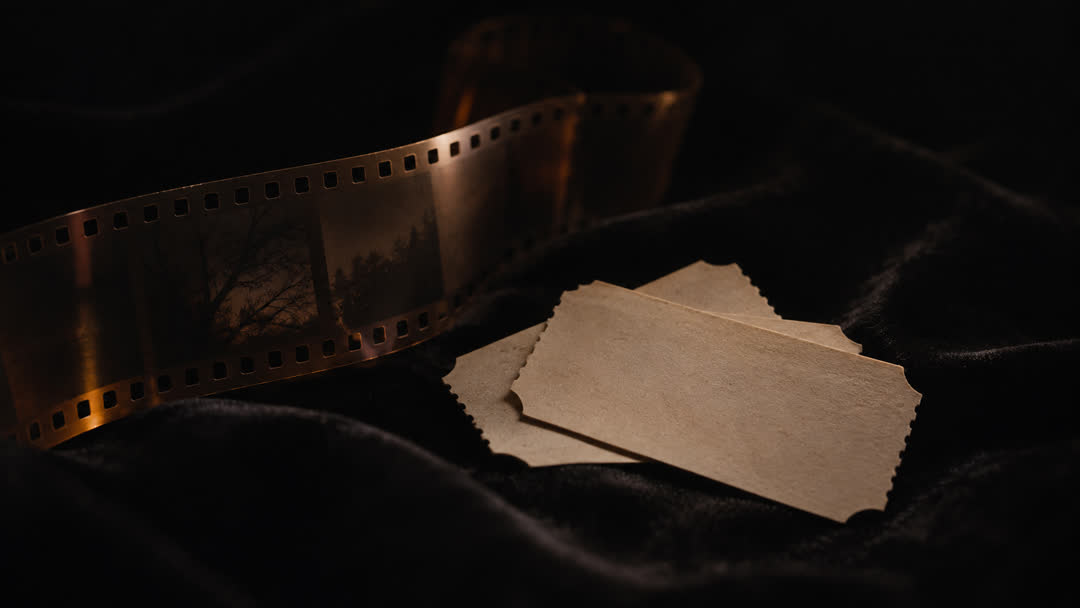
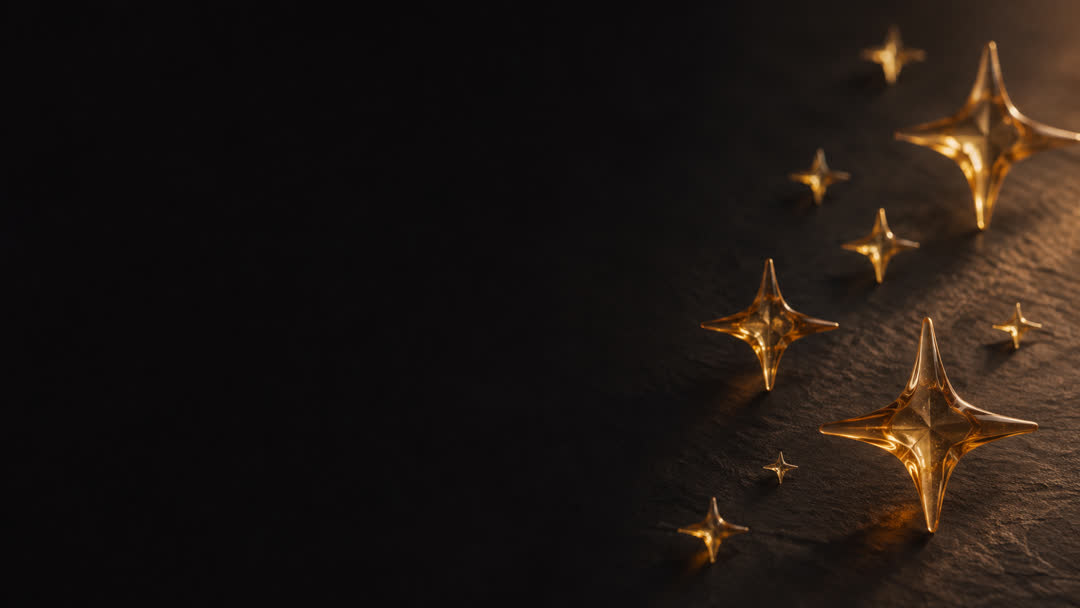
feat(miniprogram): points shown as glass stars, not coins; wallet cleanup
我的积分 / 充值订单:
- Package and order covers: amber glass four-point stars (the same ✦ that
  marks points), more stars for bigger packs: one, three, a jar, a box.
  services/points-art.ts ranks packages by size and orders by amount, so
  both pages match. Replaces fanned template covers.
- Balance card: stars fading in from the right; refresh button removed
  (pull-down and returning to the page already refresh).
- ✦ text marks become a cyan star glyph (wallet, points pill).
- Custom amount: an estimate card with the expected points in large type.
- 我的: points row photo is a star instead of a coin stack.

Aliyun OSS vs WeChat package:
- media/ui-art/wallet-bg.jpg changed (ART_VERSION 3 -> 4): goes to Aliyun
  OSS, synced automatically at deployment by doubo-sync-ui-art.service.
- miniprogram/assets/photos/tier-*.jpg, points.jpg, glyphs/points-star.png:
  NOT for Aliyun; shipped inside the mini-program package to WeChat.

Tests: tier mapping (finance-insights), wallet backdrop slot (ui-art).
Source estimate 737,774 B, within the 724 KiB limit.

diff --git a/miniprogram/pages/wallet/insights.ts b/miniprogram/pages/wallet/insights.ts
@@ -9,6 +9,7 @@ import type { Ledger } from "../../services/wallet-ledger";
 import { ledgerView } from "../../services/wallet-ledger";
 import { withDays } from "../../utils/day";
 import { templateCovers } from "../../services/covers";
+import { tierByRank } from "../../services/points-art";
 
 // Everything here is derived from real data: product prices, live quotes
 // for each kind's default model, and ledger rows. Nothing is invented.
@@ -16,6 +17,7 @@ import { templateCovers } from "../../services/covers";
 const per100 = (fen: number, units: number) => money(Math.round((fen * 10000) / units)); // ¥ per 100 points
 
 export function productCards(products: VirtualProduct[]) {
+  const sizes = products.map((p) => p.pointsUnits).sort((a, b) => a - b);
   const rate = (p: VirtualProduct) => p.pointsUnits / p.amountFen;
   const valid = products.filter((p) => p.amountFen > 0 && p.pointsUnits > 0);
   const worst = Math.min(...valid.map(rate)),
@@ -32,7 +34,7 @@ export function productCards(products: VirtualProduct[]) {
       per100: r ? per100(p.amountFen, p.pointsUnits) : "",
       bonus: bonus >= 1 ? `多得 ${bonus}%` : "",
       best: valid.length > 1 && r === best && best > worst,
-      art: [] as string[], // filled by loadArt
+      photo: tierByRank(sizes.indexOf(p.pointsUnits), products.length),
     };
   });
 }
@@ -99,22 +101,17 @@ export async function loadInsights(page: InsightPage) {
 type ArtPage = {
   destroyed?: boolean;
   revision?: number;
-  data: { products: ReturnType<typeof productCards>; uses: { kind: string }[] };
+  data: { uses: { kind: string }[] };
   setData(value: Record<string, unknown>): void;
 };
 
-// Decoration from real template covers: each package fans out more works the
-// bigger it is (1 → 3 covers), the balance card carries a small fan and each
-// "能做什么" tile shows a work of its kind. No covers, no decoration.
+// Each "能做什么" tile shows a real template cover of its kind. Packages use
+// product photos (services/points-art) and need no covers.
 export async function loadArt(page: ArtPage) {
   const owner = sessionToken(), revision = page.revision;
   const covers = (await templateCovers()).map((c) => c.cover);
   if (page.destroyed || !covers.length || sessionToken() !== owner || page.revision !== revision) return;
-  const take = (start: number, count: number) =>
-    Array.from({ length: Math.min(count, covers.length) }, (_, i) => covers[(start + i) % covers.length]);
   page.setData({
-    heroArt: take(0, 3),
-    products: page.data.products.map((p, i) => ({ ...p, art: take(i, Math.min(i + 1, 3)) })),
     useArt: { image: covers[1 % covers.length], video: covers[2 % covers.length] },
   });
 }

diff --git a/miniprogram/pages/orders/index.ts b/miniprogram/pages/orders/index.ts
@@ -1,4 +1,4 @@
-import { templateCovers } from "../../services/covers";
+import { tierByAmount } from "../../services/points-art";
 import { pullRefresh } from "../../utils/refresh";
 import { orderExtras } from "./details";
 import {
@@ -48,10 +48,10 @@ Page({
         tone: string;
         time: string;
         canPay: boolean;
+        photo: string;
       } & ReturnType<typeof orderExtras>
     >,
     open: "", // the order whose details are showing
-    art: [] as string[], // real template covers, one per card
     loading: true,
     needsLogin: false,
     loadError: "",
@@ -67,7 +67,6 @@ Page({
   watching: "",
   stopWatching: undefined as (() => void) | undefined,
   onLoad() {
-    void templateCovers().then((c) => !this.destroyed && this.setData({ art: c.map((x) => x.cover) }));
   },
   onShow() {
     this.visible = true;
@@ -142,6 +141,7 @@ Page({
           return {
             ...r,
             amount: money(r.data.amountFen),
+            photo: tierByAmount(r.data.amountFen),
             points: points(r.data.pointsUnits),
             tone: r.data.status === "paid" ? "succeeded" : r.data.status === "refunding" || awaiting ? "running" : r.data.status === "created" && !expired ? "warning" : "",
             state:

diff --git a/miniprogram/services/points-art.ts b/miniprogram/services/points-art.ts
@@ -1,0 +1,20 @@
+// Product photos for points packages (assets/photos/tier-*.jpg, generated
+// with Codex): amber glass four-point stars, the same ✦ that marks points,
+// never coins. One star, three, a jar, a box: bigger packs show more, so the
+// wallet and the order list read the same way.
+const TIERS = [
+  "/assets/photos/tier-1.jpg",
+  "/assets/photos/tier-2.jpg",
+  "/assets/photos/tier-3.jpg",
+  "/assets/photos/tier-4.jpg",
+];
+
+// Among the packages on offer: smallest gets tier 1, largest tier 4.
+export function tierByRank(rank: number, count: number) {
+  return TIERS[count <= 1 ? 1 : Math.round((rank * 3) / (count - 1))];
+}
+
+// For a single order, by what was paid: under ¥20, ¥80, ¥150, then above.
+export function tierByAmount(amountFen: number) {
+  return TIERS[amountFen < 2000 ? 0 : amountFen < 8000 ? 1 : amountFen < 15000 ? 2 : 3];
+}

diff --git a/miniprogram/pages/wallet/state.ts b/miniprogram/pages/wallet/state.ts
@@ -6,8 +6,7 @@ export const walletData = {
   productId: "",
   products: [] as ReturnType<typeof import("./insights").productCards>,
   price100: "",
-  heroArt: [] as string[],
-  backdrop: UI_ART.walletBackdrop, // until the user has works to fan out
+  backdrop: UI_ART.walletBackdrop, // glass stars fading in from the right
   useArt: { image: "", video: "" } as Record<string, string>,
   uses: [] as Array<{ kind: string; title: string; cost: string; units: number; count: number; unit: string; model: string }>,
   purchaseMode: "package" as PurchaseMode,

diff --git a/miniprogram/utils/ui-art.ts b/miniprogram/utils/ui-art.ts
@@ -13,7 +13,7 @@ import { media } from "../services/media";
 // fails to load leaves the plain design rather than a hole. Bump ART_VERSION
 // after replacing a picture so caches fetch the new one.
 const ART_BASE = "";
-const ART_VERSION = 2;
+const ART_VERSION = 4;
 const art = (name: string) =>
   ART_BASE
     ? `${ART_BASE}/${name}.jpg?v=${ART_VERSION}`

diff --git a/docs/miniprogram-invite-code-budget.md b/docs/miniprogram-invite-code-budget.md
@@ -65,3 +65,4 @@
 Codex 生成的 15 张实拍风格图片接入：上传来源（创作、模板详情）、混剪风格卡、登录/授权开通背景、积分余额卡（无作品时）、Agent 示例、我的背景、上传示例。图片放在 `media/ui-art`（共约 376 KB JPEG），由 `/api/ui-art/{name}` 带长缓存提供，不进小程序包；每个位置图片缺失时保留原纯色/图标。源码估算实测 732,639 字节（+5,071，含 OSS 地址切换说明）。OSS 上传步骤见 `media/ui-art/README.md`，上限由 712 KiB 调到 716 KiB。
 Codex 生成的「我的」页配图与图标：默认头像、积分、服务商中心、还没有作品四处是与其它配图同风格的实拍缩略图（JPG）；6 个常用功能与底部导航 5 项是同一套粗线条白色图标（带透明通道的 PNG，导航分选中白/未选中灰）。为避免首屏晚到，直接打包在 `miniprogram/assets/icons` 与 `miniprogram/assets/tab`，共 68,322 字节，计入微信上传包，不计入源码估算；缺图时退回原矢量图标。源码估算实测 734,356 字节，上限由 716 KiB 调到 720 KiB。
 全部页面按同一原则：空状态与未登录状态改为打包的实拍缩略图（未登录、无消息、无订单、断网、无搜索结果、等待开通、模板下架、视频不可用），内容类图标（作品操作、设置行、混剪功能、上传槽位、Agent、积分与积分明细、弹窗图标、搜索、复制、点赞/播放等）改用同一套 Codex 粗线条图标；箭头、关闭、勾选、加载、状态等系统控件保留 TDesign。`miniprogram/assets` 共 95 个文件、349,813 字节（计入微信上传包，测试保证无未引用文件）。源码估算 738,465 字节，上限由 720 KiB 调到 724 KiB。
+我的积分与充值订单：积分套餐与订单封面改为按档位递增的实拍商品图（琥珀玻璃四角星：一颗、三颗、一罐、一盒，与积分 ✦ 标识一致，避免像钱，`assets/photos/tier-*.jpg`，`services/points-art.ts` 统一分档），不再拼模板封面；余额卡改为右侧渐隐的星星照片（`media/ui-art/wallet-bg.jpg` 替换内容，`ART_VERSION` 升到 4，部署时自动同步 OSS）；✦ 字符改为青色星形图标；自定义金额增加预计到账卡片；去掉余额卡上的「刷新」按钮（下拉与返回页面时已自动刷新）。`miniprogram/assets` 共 100 个文件、403,028 字节；源码估算 737,774 字节。

diff --git a/miniprogram/assets/README.md b/miniprogram/assets/README.md
@@ -7,7 +7,7 @@
 
 | 目录 | 内容 | 格式 |
 |---|---|---|
-| `photos/` | 默认头像、积分、服务商中心、还没有作品，以及各页空状态（未登录、无消息、无订单、断网、无搜索结果、等待开通、模板下架、视频不可用） | JPG 缩略图 |
+| `photos/` | 默认头像、积分、服务商中心、还没有作品、积分套餐/订单分档商品图（`tier-1` 至 `tier-4`），以及各页空状态（未登录、无消息、无订单、断网、无搜索结果、等待开通、模板下架、视频不可用） | JPG 缩略图 |
 | `glyphs/` | 内容类图标（作品操作、设置、混剪、上传、Agent、弹窗、积分明细等），同一套粗线条 | 带透明通道的 PNG，颜色写在文件名里：无后缀白色、`-muted` 灰、`-danger` 红、`-brand` 青、`-dark` 深色（用于浅色底）、`-lg` 大尺寸 |
 | `tab/` | 底部导航 5 个图标 | PNG，`-on` 选中白色、`-off` 未选中灰色 |
 
